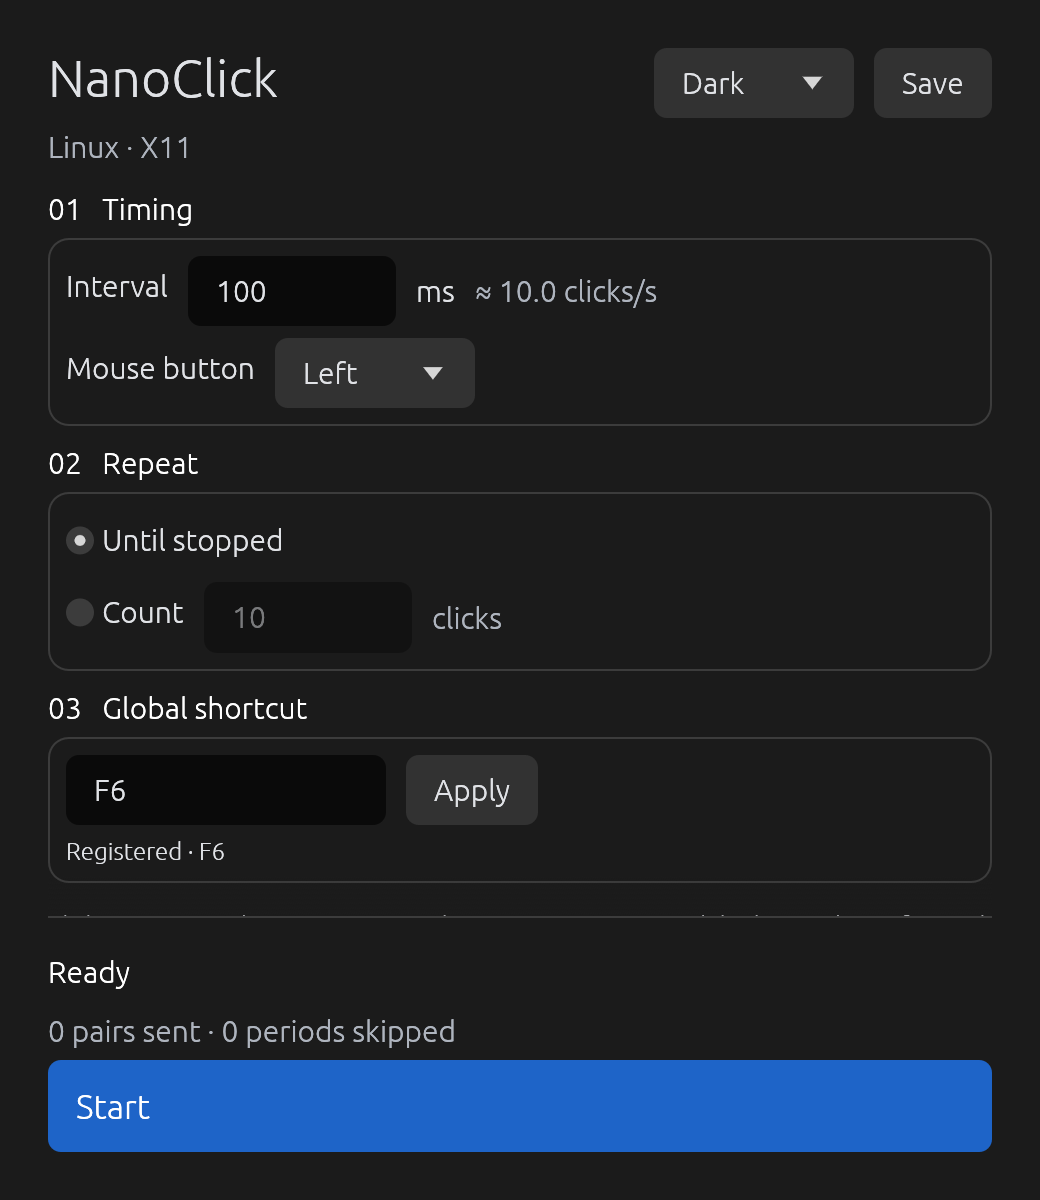
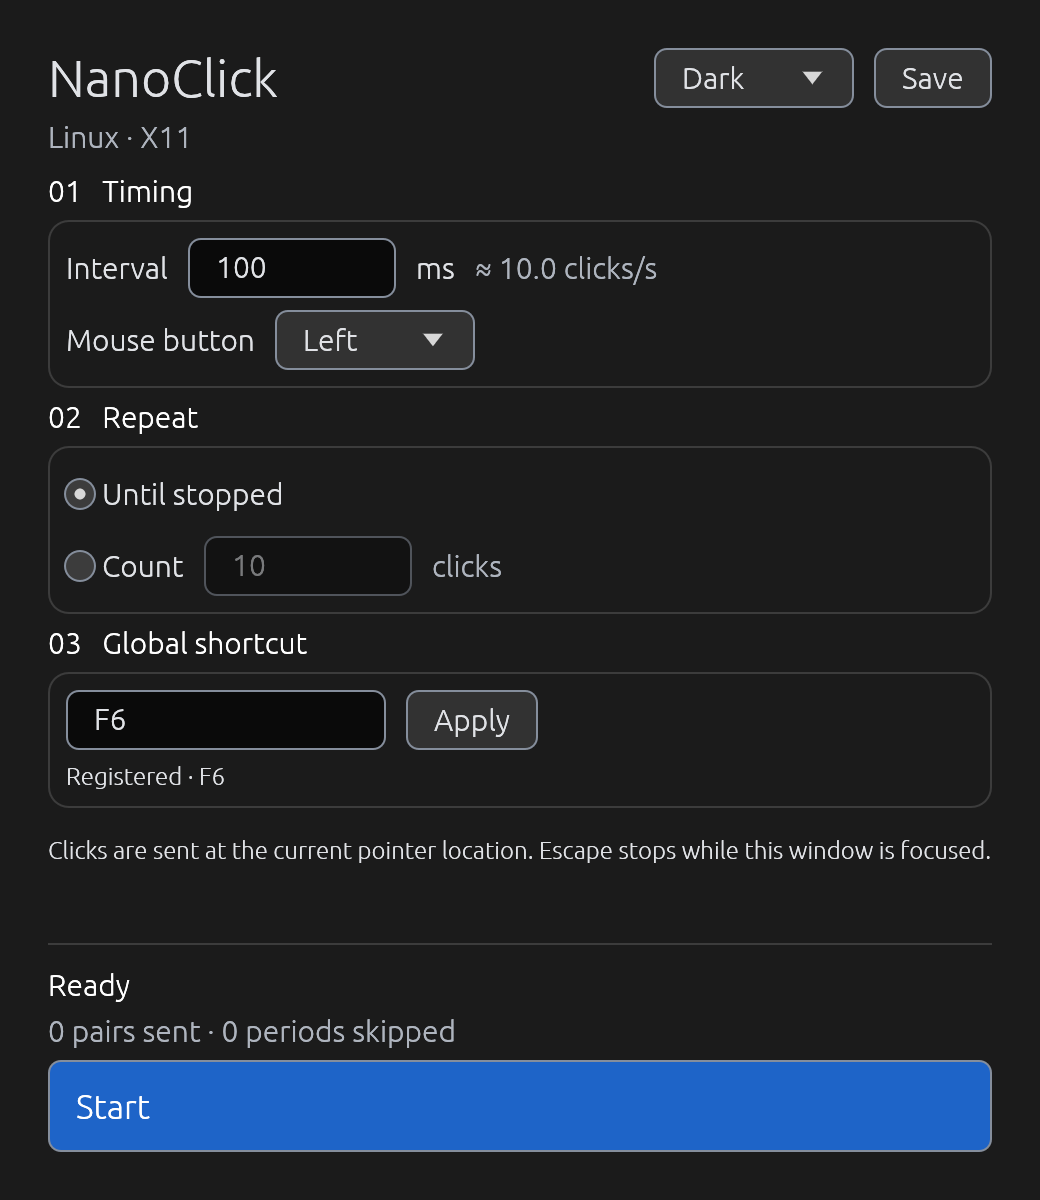
docs: record accessible UI checks, scaled flows and release measurements

diff --git a/docs/STATUS.md b/docs/STATUS.md
@@ -1,23 +1,22 @@
-# Estado de NanoClick
+# NanoClick status
 
-Actualizado: 2026-10-24.
+Updated: 2026-10-24.
 
-- **Plan:** arquitectura, UI, calidad, fases y backlog documentados; T01 completada con baseline Windows explícitamente pendiente.
-- **Idioma:** nueva aplicación únicamente en inglés.
-- **Implementado:** workspace Rust de tres crates; dominio validado, scheduler monotónico, worker cancelable y snapshots; UI inicial de temas claro/oscuro, tres botones, infinito/N, cuenta regresiva manual, atajos Windows/X11 y configuración mediante portal Wayland.
-- **Verificado:** 33 tests (22 core, 2 controller, 6 de preferencias y 3 helpers Windows), Clippy Linux y Windows sin warnings; capturador Xvfb recibió 10 pares ordenados para cada botón y comprobó atajo fuera de foco, tecla sostenida y conflicto. Seis capturas Xvfb de ambos temas a 100/150/200% revisadas: controles principales visibles; fragmento de ayuda en el borde de scroll a 200% pendiente. Ver evidence/ui-scaling.md.
-- **Atajos:** listeners propios por eventos en X11 y Windows; biblioteca global-hotkey solo como parser. La prueba del ejecutable completo pasó en Xvfb (atajo, cuenta regresiva, Stop y cierre).
-- **Espera del worker:** puerto Waiter integrado; Condvar Linux y temporizador Windows de alta resolución con evento cancelable por ejecución. Errores de espera/cleanup cubiertos, ver evidence/native-waiter.md.
-- **Windows:** cargo check para x86_64-pc-windows-msvc terminó; no hay ejecución nativa ni binario enlazado validado. Clippy Windows también pasó tras corregir el warning de campo exclusivo de Linux.
-- **Wayland:** interfaces reales RemoteDesktop v2 y GlobalShortcuts v1 disponibles en GNOME local; adaptadores implementados, sin sesión de inyección autorizada/validada. KDE pendiente. Monitores Closed y pérdida/cambio de propietario del servicio instalados antes de solicitar permisos; pruebas de lifecycle D-Bus y QA nativo aún pendientes (evidence/wayland-lifecycle.md).
-- **Preferencias:** guardado explícito con Save; esquema versionado y reemplazo atómico, tests Linux de corrupción, versión futura y fallo de publicación. Compila para Windows; ejecución allí pendiente.
-- **CI:** workflow Windows/Linux, renderer alternativo y MSRV definido; YAML parseado y acciones fijadas por commit. Ejecución hospedada pendiente.
-- **Licencia del proyecto:** aviso MIT completado como Copyright (c) 2026 bensalcos, tras delegación explícita del usuario.
-- **Packaging:** preview Linux con licencias, fuentes MPL verificadas, checksums y símbolos separados; ejecutable extraído validado en Xvfb Fedora y Ubuntu 24.04 aislado. Windows ZIP/PDB pendiente. Ver evidence/packaging.md.
-- **Auditoría:** cero vulnerabilidades conocidas y tres avisos de mantenimiento upstream, registrados sin ignores en evidence/dependency-audit.md.
-- **Rendimiento:** release glow/Xvfb: arranque p95 88.575 ms, CPU reposo 0.0167%, RSS 106.965 MiB; CPU activo 5.2330% tras reducir progreso a 2 Hz. RSS y CPU activo todavía exceden presupuestos; ver evidence/ui-performance.md.
-- **Renderers:** glow/wgpu release comparados con el mismo código y rendering software: CPU activo 5.23%/6.03%, RSS reposo 107.23/104.53 MiB. Ninguno cumple ambos presupuestos; glow sigue provisional. Ver evidence/renderer-comparison.md.
-- **Pendiente:** comparación en GPUs físicas/Windows y benchmarks nativos release; CI hospedado; QA nativo/DPI/NVDA/Orca y aceptación por plataforma. No retirar C++ todavía.
-- **Siguiente:** ejecutar espera nativa Windows, comparar renderers (MSRV 1.95 ya pasó check local) y ampliar las mediciones nativas disponibles. El núcleo ya tiene 4000 mediciones release de Stop con sink sin entrada; no sustituyen métricas de producto.
+- **Plan:** architecture, UI specification, phases and backlog are documented. T01 is complete with the unavailable C++ Windows baseline explicitly pending. Platform milestones remain open.
+- **Language:** the new application uses English throughout.
+- **Implemented:** three-crate Rust workspace; validated plans, monotonic scheduling, cancelable worker, terminal snapshots; light/dark/system themes, three mouse buttons, infinite/count modes, manual countdown, native Windows/X11 shortcuts and Wayland portal adapters.
+- **Verified locally:** 38 Rust tests (22 core, 13 application, 3 Windows helpers), plus 3 Python packaging tests. Linux Clippy, Windows MSVC target Clippy/tests compilation, alternate wgpu feature Clippy and Rust 1.95 compatibility checks pass. Windows execution is separate and pending.
+- **UI:** five form/select controls expose accessible names and values. Tests cover Tab/Shift+Tab order, Enter in fields, token contrast and primary-action bounds in all run states with long errors/counters. Session status is a polite atomic live region. See [accessibility evidence](evidence/ui-accessibility.md).
+- **X11 runtime:** actual GUI flows pass in private Xvfb at 100/150/200%, including minimum 420×520 logical size, manual countdown, shortcut outside focus, complete pairs, no post-stop input and clean close. Default-size help clipping is fixed; a visible scrollbar serves smaller windows. Updated light/dark, minimum and active-state captures are in [scaling evidence](evidence/ui-scaling.md).
+- **Input/shortcuts:** isolated X11 adapter tests received ordered pairs for all three buttons and checked held F6 and conflicts. Windows/X11 shortcut listeners use events rather than polling. The worker uses a portable condition variable on Linux and a high-resolution timer plus per-run cancellation event on Windows; see [wait evidence](evidence/native-waiter.md).
+- **Windows:** cross-target checks pass; there is no validated linked/native executable or ZIP/PDB yet. Native SendInput, timer/hotkey behavior, installation, DPI and NVDA remain pending.
+- **Wayland:** local GNOME exposes RemoteDesktop v2 and GlobalShortcuts v1. Closed and service-owner listeners are installed before permission preparation. Consent, denial, revocation, isolated D-Bus lifecycle tests, actual native input and KDE remain pending; see [lifecycle evidence](evidence/wayland-lifecycle.md).
+- **Preferences:** explicit Save, versioned schema, atomic replacement and recovery tests pass on Linux. Running state/permissions are never restored. Windows native filesystem verification remains pending.
+- **CI:** pinned Linux/Windows workflow and MSRV/renderer jobs are prepared; no hosted run has been accepted.
+- **License:** MIT notice is Copyright (c) 2026 bensalcos, chosen after the user's explicit delegation.
+- **Packaging:** Linux previews include dependency notices, verified MPL source, checksums and separate symbols. The pre-polish preview passed isolated Fedora/Ubuntu execution; the refreshed UI build is ready for a new local preview. See [packaging evidence](evidence/packaging.md).
+- **Dependency audit:** no known vulnerabilities and three upstream maintenance warnings, recorded without ignores in [audit evidence](evidence/dependency-audit.md).
+- **Performance:** the matched-source pre-polish comparison measured glow/wgpu active CPU at 5.23%/6.03% of one core and idle RSS at 107.23/104.53 MiB. Both exceeded the unchanged CPU/RAM budgets; glow remains provisional. The current accessible UI release measured 73.712 ms startup p95, 0 observed idle CPU ticks, 106.789 MiB idle RSS and 5.3499% active CPU. CPU/RAM budgets remain unmet; see [current UI measurements](evidence/ui-polish-performance.md). The 4,000 no-input core Stop samples do not replace native input/GUI latency evidence. See [renderer comparison](evidence/renderer-comparison.md).
+- **Remaining:** CPU/RAM optimization and deadline-lateness measurements; hosted CI; native Windows/GNOME/KDE validation; real monitor transitions, NVDA/Orca and final distribution acceptance. Keep the C++ reference until those gates close.
 
-Ver [evidencia](evidence/implementation.md), [plan](../tasks/plan.md) y [tareas](../tasks/todo.md). Los hitos de plataforma permanecen abiertos aunque exista código compilable.
+See [plan](../tasks/plan.md), [tasks](../tasks/todo.md) and [implementation evidence](evidence/implementation.md). Compilable adapters, synthetic scaling and headless accessibility tests do not close native acceptance gates.

diff --git a/docs/evidence/ui-scaling.md b/docs/evidence/ui-scaling.md
@@ -1,22 +1,28 @@
-# Synthetic X11 scaling review
+# Synthetic X11 scaling and minimum-size review
 
-Date: 2026-10-24. Application source: `0435c9e`. Renderer: glow, debug build with eframe's screenshot hook. Private Xvfb screen: 2048×1536, no input session started, temporary configuration directory. This is a layout check, not a performance measurement or native DPI acceptance.
-
-Reproduce:
+Updated 2026-10-24. Visual polish: `68380d4`; live-status and scaled-flow follow-up: `fb36ed5`. Glow renderer on a private Xvfb display. Default-size captures use a debug build with eframe's screenshot hook; runtime captures use the normal executable. These are layout/interaction checks, not native monitor-DPI or screen-reader acceptance.
 
 ```sh
 cargo build --locked -p nanoclick --features eframe/__screenshot
 scripts/capture-ui.sh /tmp/nanoclick-dark-2x.png dark 2
+cargo build --locked -p nanoclick
+scripts/verify-ui-x11.sh target/debug/nanoclick 2
 ```
 
-The optional third argument accepts `1`, `1.5` or `2` and sets winit's documented X11 scale override. Window content remains 520×600 logical units, producing 520×600, 780×900 or 1040×1200 physical pixels. The screenshot hook exits after the second frame; it does not test keyboard navigation or screen readers.
+The scale argument accepts `1`, `1.5` or `2` using winit's X11 override. The default window stays 520×600 logical units, producing 520×600, 780×900 or 1040×1200 physical pixels. The native-flow harness uses a private 2048×1536 screen and also resizes to 420×520 logical units.
 
-| Scale | Dark | Light | Visual result |
+| Scale | Dark | Light | Result |
 |---|---|---|---|
-| 100% | [capture](screenshots/linux-x11-dark-1x.png) | [capture](screenshots/linux-x11-light-1x.png) | Three control sections, Save/theme and main action visible |
-| 150% | [capture](screenshots/linux-x11-dark-1.5x.png) | [capture](screenshots/linux-x11-light-1.5x.png) | Same logical layout, readable text |
-| 200% | [capture](screenshots/linux-x11-dark-2x.png) | [capture](screenshots/linux-x11-light-2x.png) | Main controls fit; partial help-text edge visible above action panel |
+| 100% | [capture](screenshots/linux-x11-dark-1x.png) | [capture](screenshots/linux-x11-light-1x.png) | Main controls, complete help text and primary action visible |
+| 150% | [capture](screenshots/linux-x11-dark-1.5x.png) | [capture](screenshots/linux-x11-light-1.5x.png) | Same logical layout and complete help text |
+| 200% | [capture](screenshots/linux-x11-dark-2x.png) | [capture](screenshots/linux-x11-light-2x.png) | Same layout; previous help-text fragment fixed |
 
-All six images were visually inspected. No main control or title is cropped at the default window size. However, the explanatory paragraph below the shortcut section is below the scroll fold; at 200% a thin text fragment is visible at the clipping boundary. This remains visual debt to fix before UI acceptance. The text-field/radio outlines also need a measured non-text contrast review, and accessible field names need completion.
+All six refreshed images were visually inspected. Secondary buttons/fields retain 30 logical units of minimum height, and the primary action retains 46. Tighter secondary padding and removal of redundant section spacing make the help fit without increasing the window or hiding instructions.
 
-Still pending: minimum-size 420×520 interaction and scrolling, keyboard focus/order, long errors, active states, monitor changes, native Windows/Linux scaling, NVDA and Orca. AccessKit is enabled but that alone does not demonstrate accessibility. T02/T14 remain open.
+At 100%, 150% and 200%, the actual executable passed: shortcut start/stop outside focus, complete input pairs, no input after observed Stop, manual countdown, Start at minimum size and clean close. At minimum size, a visible scrollbar exposes the remaining form; scrolling preserves the main action. Captures:
+
+- [Minimum size](screenshots/linux-x11-dark-minimum.png), [scrolled](screenshots/linux-x11-dark-minimum-scrolled.png).
+- [Minimum at 200%](screenshots/linux-x11-dark-minimum-2x.png), [scrolled at 200%](screenshots/linux-x11-dark-minimum-2x-scrolled.png).
+- [Running](screenshots/linux-x11-dark-running.png), [preparing at minimum](screenshots/linux-x11-dark-minimum-preparing.png), [preparing at minimum and 200%](screenshots/linux-x11-dark-minimum-2x-preparing.png).
+
+Still pending: physical monitor scaling/transitions, native Windows/Linux desktop review, light-theme active states and native NVDA/Orca use. See [accessibility evidence](ui-accessibility.md) for the automated tree, keyboard and contrast checks. T02/T14 remain open.

diff --git a/docs/evidence/ui-accessibility.md b/docs/evidence/ui-accessibility.md
@@ -1,0 +1,27 @@
+# UI accessibility implementation and evidence
+
+The form now supplies semantic names for Interval, Count, Global shortcut, Mouse button and Theme. Visible labels are linked with `labelled_by`; the shortcut and theme controls use explicit accessible names where their role is otherwise unnamed. Current values remain exposed independently of those names.
+
+The footer is measured before reserving the form's scroll area, but its interactive control is created after the form. This keeps Start/Stop fixed at the bottom while Tab follows the visible reading order. Theme is created before Save even though their group is right-aligned. No custom keyboard event loop replaces egui's focus management.
+
+Session status uses an atomic polite live region. Counter updates remain ordinary text, avoiding continuous live announcements. Real reader behavior is still pending validation.
+
+## Automated evidence
+
+Five additional tests bring the workspace total to 38:
+
+- The generated AccessKit tree exposes the five named fields/selectors and their current values.
+- Actual window-view Tab order is Theme, Save, Interval, Mouse button, Until stopped, Count mode, Count field, Global shortcut, Apply, Start. Reverse traversal is checked too, allowing egui's documented next-frame focus update.
+- Enter in Interval or Global shortcut does not start the engine.
+- The primary action stays within 420×520, retains a 46-unit target and exists in Idle, Preparing, Running, Stopping and Faulted views with very long errors and maximum-length counters. The same tree exposes polite atomic status.
+- Both themes check body/secondary text contrast ≥4.5:1, enabled control boundary/focus contrast ≥3:1 and selected text ≥4.5:1. Control outlines are opaque and at least one logical unit wide; focus uses two. These checks cover palette tokens and their specified fills, not every antialiased pixel or every operating-system visual state.
+
+The view tests use the production rendering functions, an unregistered shortcut and an engine sink that cannot send desktop input. They neither read user preferences nor connect to desktop services. Texture deltas from the headless egui passes are explicitly cleared.
+
+Checks passed: full workspace tests, Linux Clippy including X11 examples, Windows MSVC target Clippy/tests compilation, alternate wgpu feature Clippy and Rust 1.95 compatibility check. Windows tests were not executed natively.
+
+## Runtime evidence and remaining acceptance
+
+[Scaling review](ui-scaling.md) records actual Xvfb UI flows and captures at 100/150/200%, including minimum-size scrolling and active states. It demonstrates the isolated X11 path, separately from the headless tree tests.
+
+Native NVDA/Orca operation, announcement cadence, real monitor transitions and keyboard use under actual window managers remain required. Enabling AccessKit, passing token checks or emitting a live region alone does not establish complete accessibility acceptance.

diff --git a/docs/evidence/ui-polish-performance.md b/docs/evidence/ui-polish-performance.md
@@ -1,0 +1,22 @@
+# Release check after accessibility/layout changes
+
[1 lines of base64/hex data omitted]
+
+Command: `LIBGL_ALWAYS_SOFTWARE=1 scripts/measure-ui-x11.sh target/release/nanoclick`. Same host, private Xvfb/Mesa llvmpipe setup and 2 Hz progress publication as the earlier glow runs. No compiler or heavy verification process ran during measurement. The helper now derives the primary-action position from window geometry and explicitly fixes X11 scaling to 100%; startup observation still polls every 5 ms.
+
+| Measurement | Result | Initial target |
+|---|---:|---:|
+| Warm startup p95, 30 starts | 73.712 ms | ≤500 ms |
+| Idle CPU, one core, 60 s | 0.0000% | ≤1% |
+| Idle RSS | 106.789 MiB | ≤100 MiB: **unmet** |
+| Active CPU at 100 pairs/s, 60 s | 5.3499% | ≤5%: **unmet** |
+| Active RSS | 106.914 MiB | Recorded separately |
+| Complete received pairs | 6001 | 60 s observation |
+| Interarrival absolute error p99 | 1 ms | Not deadline lateness |
+| Interarrival absolute error maximum | 1 ms | Observed only |
+
+[Numeric record](ui-glow-accessibility.csv). Zero idle CPU means no additional process tick was observed in that window. CPU uses aggregate process ticks with one core as 100%; RSS includes software graphics libraries.
+
+The pre-polish matched-source glow run observed 84.481 ms startup p95, 107.230 MiB idle RSS and 5.2331% active CPU. This new single run has lower startup/RSS and slightly higher active CPU. Neither is a repeated-trial statistical comparison; do not claim a proven CPU improvement or no regression. The active CPU and memory gates remain open, without changing thresholds or removing accessibility features to make the measurements pass.
+
+Next performance work needs profiling and measured changes, followed by the same functional/keyboard checks. Native input Stop, scheduler deadline lateness, loaded operation, physical GPU behavior, Windows and Wayland remain separate acceptance requirements.

diff --git a/docs/UI.md b/docs/UI.md
@@ -47,3 +47,9 @@ Tab/Shift+Tab en orden de lectura; foco visible; Space/Enter solo en el control 
 Probar 100%, 150% y 200% DPI; ventana mínima; mensajes largos; teclado completo; NVDA en Windows y Orca en Linux. AccessKit habilitado no demuestra por sí solo que estas pruebas pasan. Guardar capturas y resultados por SO/tema; aprobar la apariencia en escritorio real, no solo compilación ni headless.
 
 Preferencias persistidas al pulsar Save: tema, configuración y atajo solicitado. El resultado del guardado se muestra en la ventana. Archivo versionado con escritura temporal y reemplazo seguro específico del SO; recuperación de archivo corrupto sin sobrescribirlo automáticamente. Usar directorios de configuración estándar. Nunca persistir estado Running, permisos como si fueran vigentes ni contadores que reactiven clics al abrir.
+
+## Implemented layout and accessibility update
+
+The initial 520×600 size and 420×520 minimum remain. Secondary padding is 14×6 with a 30-unit minimum target; the primary action remains 46 units high. Redundant section spacing was removed so help fits at default size. A nonfloating scrollbar appears when needed at smaller sizes.
+
+The body is created before the footer button for reading-order keyboard traversal; footer space is reserved from wrapped status/progress measurements. Fields/selectors have explicit English accessible names and values. Session status is a polite atomic live region; the counter is not live. Palette tokens have automated text/control/focus contrast checks. These implementation checks do not close native DPI/NVDA/Orca acceptance; see evidence/ui-accessibility.md and evidence/ui-scaling.md.

diff --git a/tasks/todo.md b/tasks/todo.md
@@ -97,14 +97,14 @@ Implementation: Windows high-resolution timer and per-run cancellation event com
 ### T13 — Persistir preferencias de forma recuperable [M]
 
 Implementation: versioned explicit Save and six recovery tests pass on Linux; Windows native replacement remains pending.
-- [ ] Tema, plan y atajo solicitado en esquema versionado, sin estado activo ni reanudación automática.
+- [x] Tema, plan y atajo solicitado en esquema versionado, sin estado activo ni reanudación automática.
 - [ ] Escritura/reemplazo seguro en cada SO, recuperación de archivo inválido y directorios estándar.
 
 **Dependencias:** T11, T12. **Verificación:** roundtrip, corrupción, versión futura y fallo de escritura preservando último archivo válido. **Archivos:** `app/src/settings.rs`, integración/controller y tests.
 
 ### T14 — Aceptar UI, DPI y accesibilidad [M]
 
-Partial evidence: six default-size Xvfb captures at 100/150/200% reviewed. Main controls fit; help clipping, non-text contrast and accessible field names still need work. Native DPI and screen-reader checks remain pending. See `docs/evidence/ui-scaling.md`.
+Partial evidence: names/values verified in the actual AccessKit tree; Tab/Shift+Tab order, Enter behavior, token contrast and primary-action bounds have tests. Xvfb full flows pass at 100/150/200%, including minimum-size scrolling; default help clipping is fixed. Native DPI and NVDA/Orca remain pending. See `docs/evidence/ui-scaling.md` and `ui-accessibility.md`.
 - [ ] Pulir tokens, foco, errores, escalado y temas según UI.md con capturas reales.
 - [ ] Completar teclado y pruebas NVDA/Orca, sin recorte a 420×520 y 200% DPI.
 
